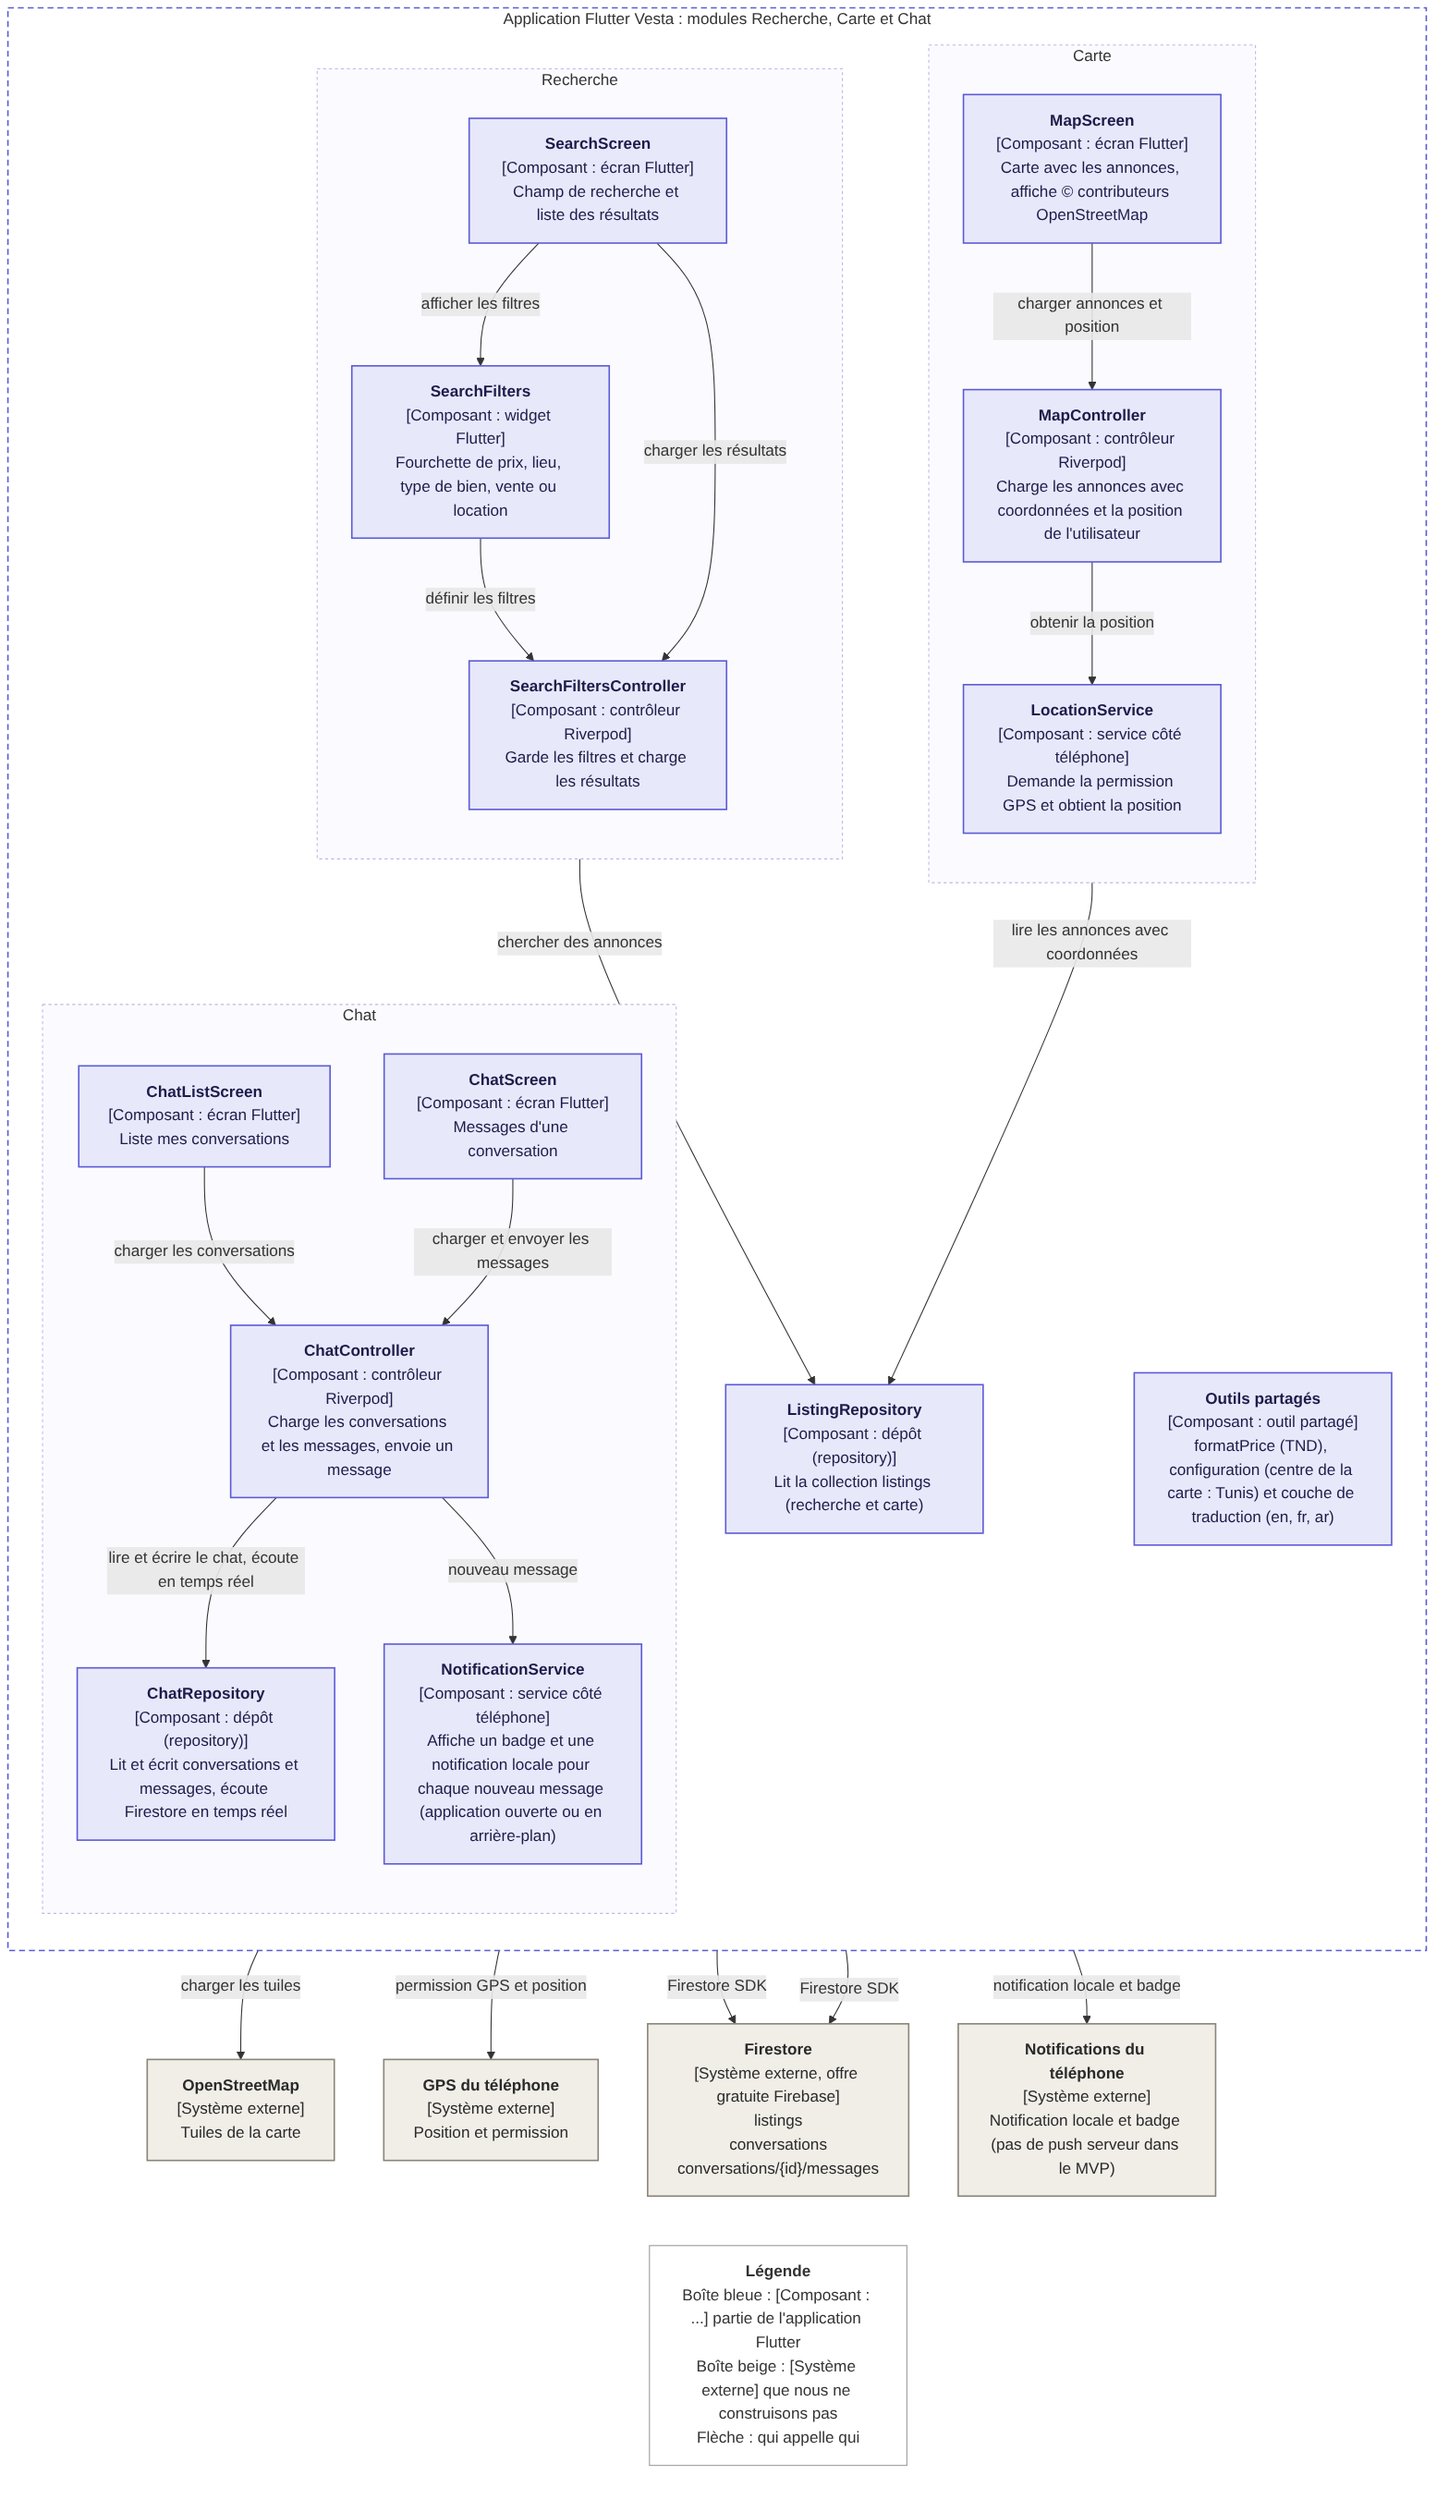
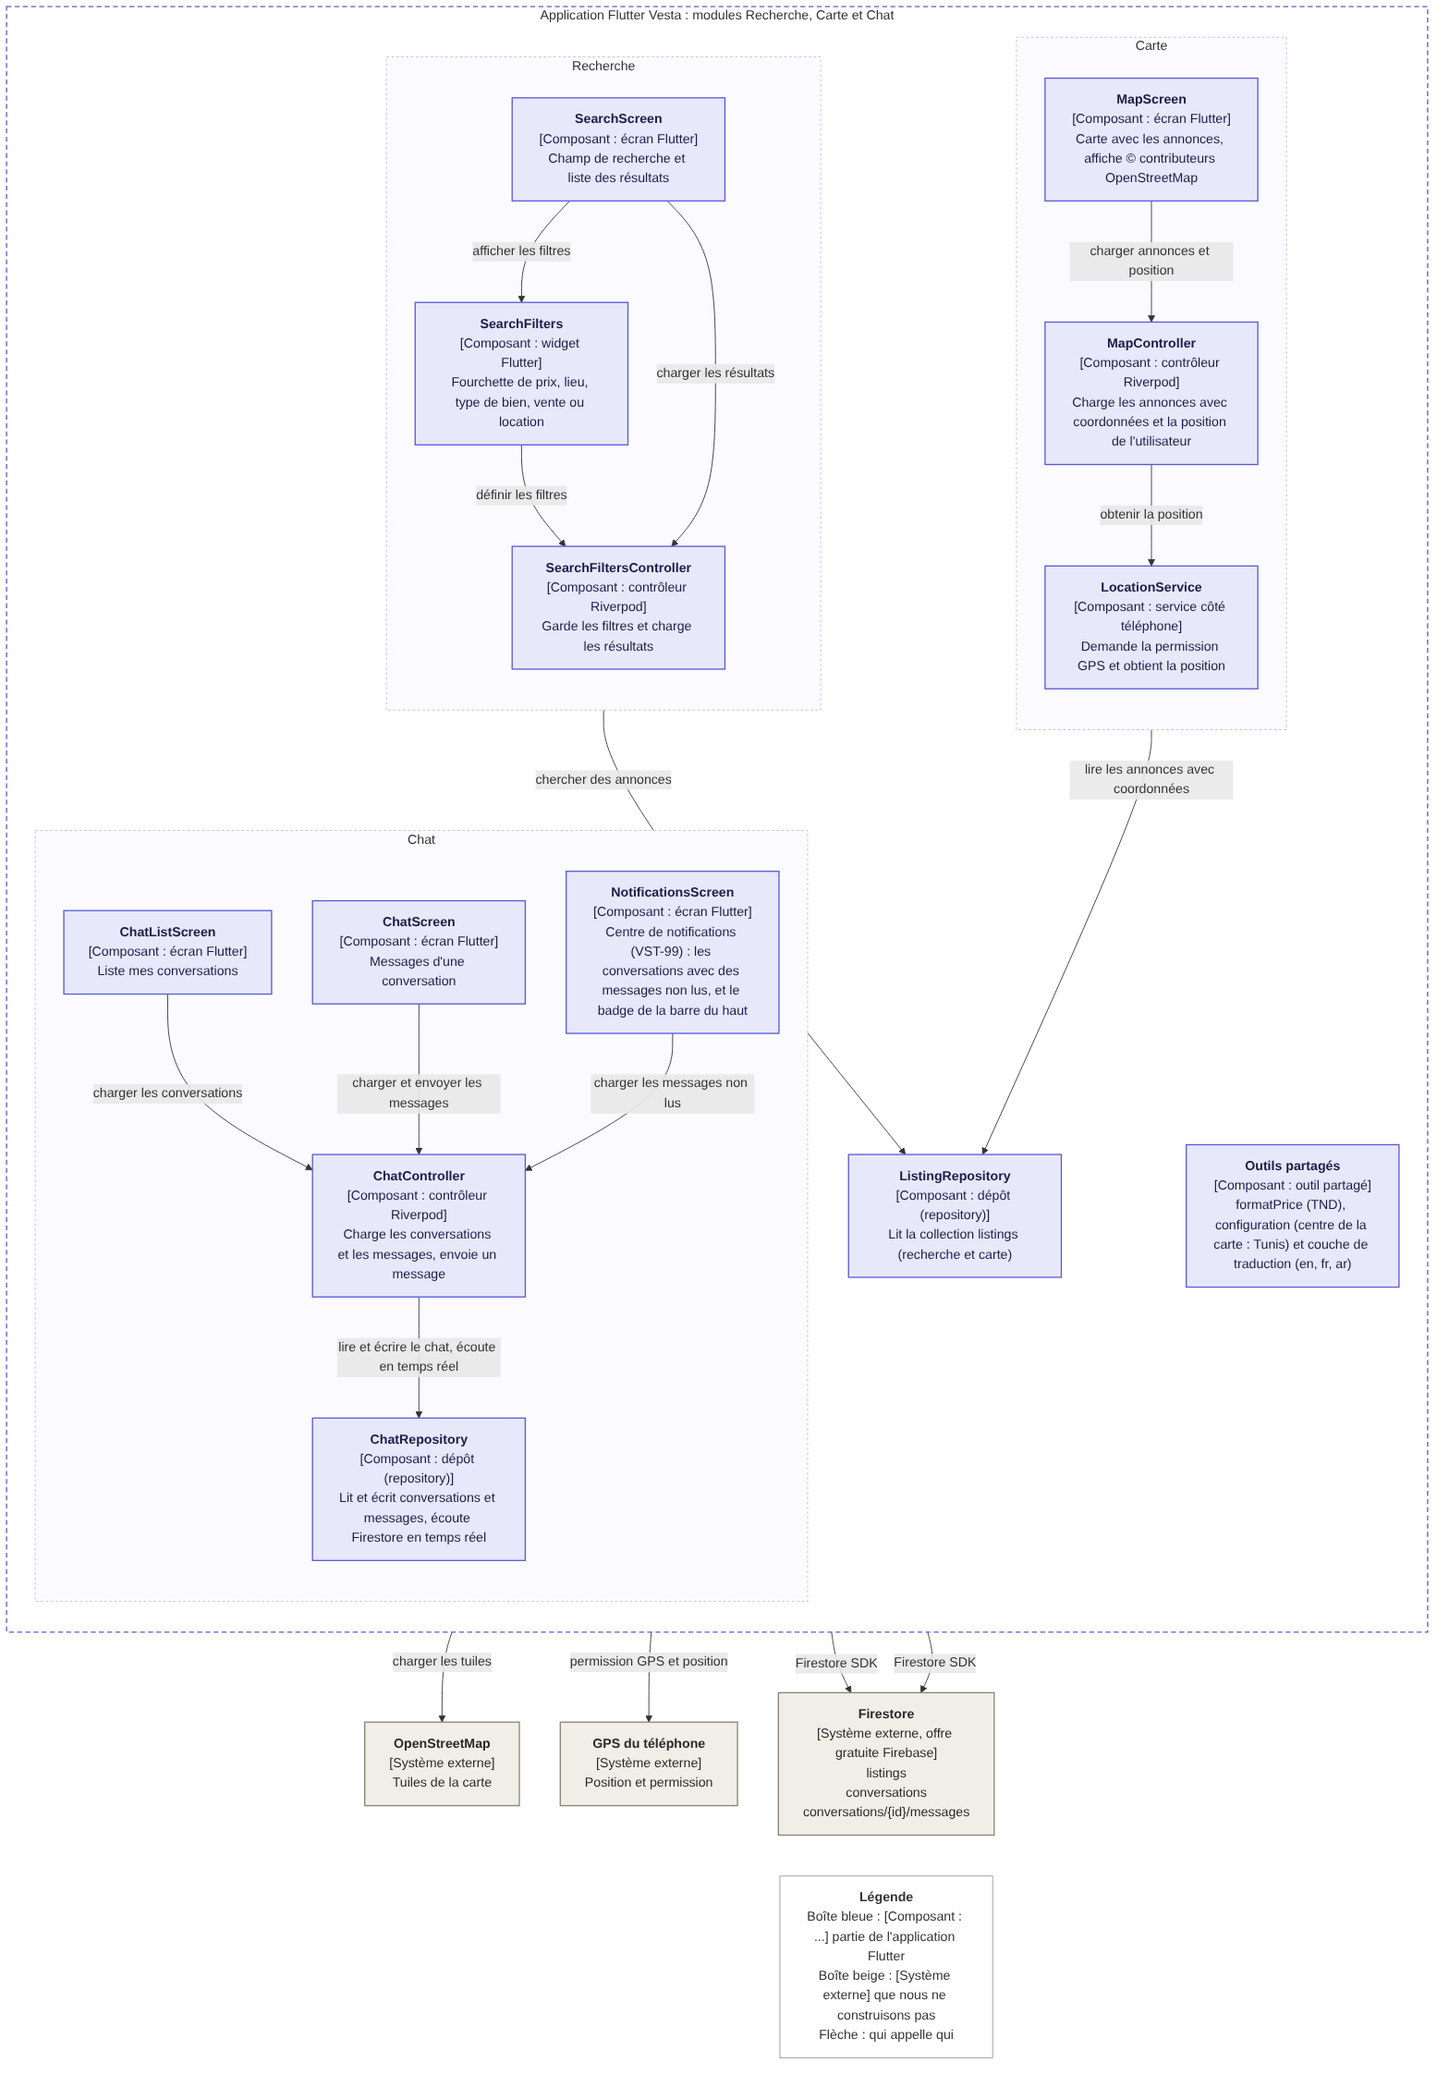
docs: remplace NotificationService par le centre de notifications réel (VST-99), séquence du message via ChatRepository

diff --git a/docs/c4/README.md b/docs/c4/README.md
@@ -81,8 +81,8 @@ Même lecture que les autres diagrammes de niveau 3 (types entre crochets, lége
 - Le contrôleur s'appelle `SearchFiltersController` (et non `SearchController`) parce que Flutter Material a déjà une classe `SearchController` : le nom entrerait en conflit dans le code.
 - `SearchFilters` (fourchette de prix, lieu, type de bien, vente ou location) est un widget utilisé par `SearchScreen`. `SearchFiltersController` garde les filtres et interroge `ListingRepository`, partagé avec la carte et avec le module Annonces.
 - L'identifiant d'une conversation est `{listingId}_{buyerId}` et ses messages sont une sous-collection. `ChatController` sert les deux écrans du chat à travers `ChatRepository`.
-- Alerte de nouveau message (MVP) : il n'y a pas de push serveur, parce que les Cloud Functions ne sont pas disponibles dans l'offre gratuite de Firebase. `ChatRepository` écoute Firestore en temps réel, `ChatController` envoie chaque nouveau message à `NotificationService`, et `NotificationService` affiche un badge et une notification locale, application ouverte ou en arrière-plan.
-- Hors MVP : le vrai push FCM (application fermée). Il demande l'offre Blaze de Firebase ou un petit serveur externe. C'est un ticket futur (voir « Travaux futurs » ci-dessous).
+- Alerte de nouveau message (MVP) : il n'y a pas de push serveur, parce que les Cloud Functions ne sont pas disponibles dans l'offre gratuite de Firebase. `ChatRepository` écoute Firestore en temps réel et `ChatController` fournit le nombre de messages non lus. L'utilisateur voit un badge sur l'icône de notifications et, dans `NotificationsScreen` (le centre de notifications, VST-99), une « notification » est une conversation qui contient des messages non lus.
+- Hors MVP : les notifications locales et le vrai push FCM (application fermée). Il demande l'offre Blaze de Firebase ou un petit serveur externe. C'est un ticket futur (voir « Travaux futurs » ci-dessous).
 - `formatPrice`, la configuration et la couche de traduction sont des outils partagés utilisés par les écrans. Ils sont dessinés une seule fois, sans flèches.
 
 | Composant | Type | Responsabilité |
@@ -95,12 +95,12 @@ Même lecture que les autres diagrammes de niveau 3 (types entre crochets, lége
 | `LocationService` | service côté téléphone | Demande la permission GPS et obtient la position. |
 | `ChatListScreen` | écran Flutter | Liste mes conversations. |
 | `ChatScreen` | écran Flutter | Messages d'une conversation. |
-| `ChatController` | contrôleur Riverpod | Charge les conversations et les messages, envoie un message et passe chaque nouveau message à `NotificationService`. |
+| `ChatController` | contrôleur Riverpod | Charge les conversations et les messages, envoie un message et fournit le nombre de messages non lus. |
 | `ChatRepository` | dépôt | Lit et écrit `conversations` et `conversations/{id}/messages`, et écoute Firestore en temps réel. |
-| `NotificationService` | service côté téléphone | Affiche un badge et une notification locale pour un nouveau message (application ouverte ou en arrière-plan). |
+| `NotificationsScreen` | écran Flutter | Centre de notifications (VST-99) : liste les conversations qui ont des messages non lus, et le badge de la barre du haut. |
 | `ListingRepository` | dépôt | Lit la collection `listings` (recherche et carte). |
 | `formatPrice`, configuration, couche de traduction | outil partagé | Même format de prix, même centre de carte et mêmes textes dans chaque écran. |
 
 ### Travaux futurs
 
-- Vraies notifications push avec FCM, pour que l'alerte arrive aussi quand l'application est fermée. FCM est gratuit, mais envoyer un push à un autre utilisateur demande un serveur : l'offre Blaze de Firebase (Cloud Functions) ou un petit serveur externe. Hors MVP, à créer comme ticket Jira.
+- Notifications locales et vraies notifications push avec FCM, pour que l'alerte arrive aussi quand l'application est fermée. FCM est gratuit, mais envoyer un push à un autre utilisateur demande un serveur : l'offre Blaze de Firebase (Cloud Functions) ou un petit serveur externe. Hors MVP, à créer comme ticket Jira.

diff --git a/docs/user-stories.md b/docs/user-stories.md
@@ -38,8 +38,8 @@ Format : « En tant que ..., je veux ..., afin de ... ». Les besoins fonctionne
 - En tant qu'utilisateur, je veux modifier mon nom et ma photo, afin que les autres me reconnaissent.
 - En tant que propriétaire, je veux voir mes propres annonces publiées, afin de les suivre.
 
-## Alertes de messages (notifications dans l'application)
-- En tant qu'utilisateur, je veux recevoir une notification quand je reçois un nouveau message, afin de ne pas manquer un acheteur ou un propriétaire.
+## Alertes de messages (centre de notifications dans l'application)
+- En tant qu'utilisateur, je veux voir un badge de messages non lus et un centre de notifications, afin de ne pas manquer un acheteur ou un propriétaire. *(Pas de notification push : voir les travaux futurs du rapport.)*
 
 ## Types d'offre : vente, location, séjour (VST-100, voir `docs/offer-types.md`)
 - En tant qu'acheteur, je veux un onglet « Acheter » avec les prix en TND, afin de ne comparer que les biens à vendre.
